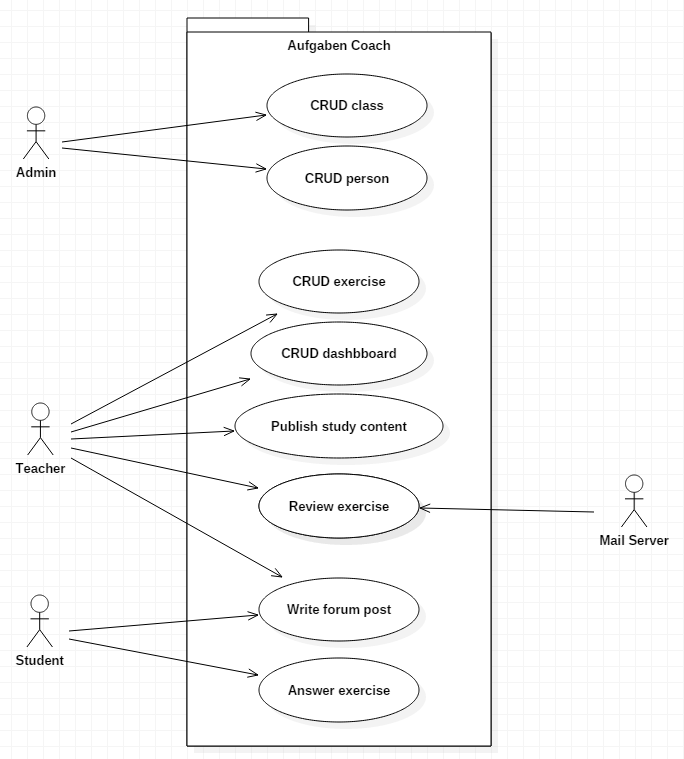
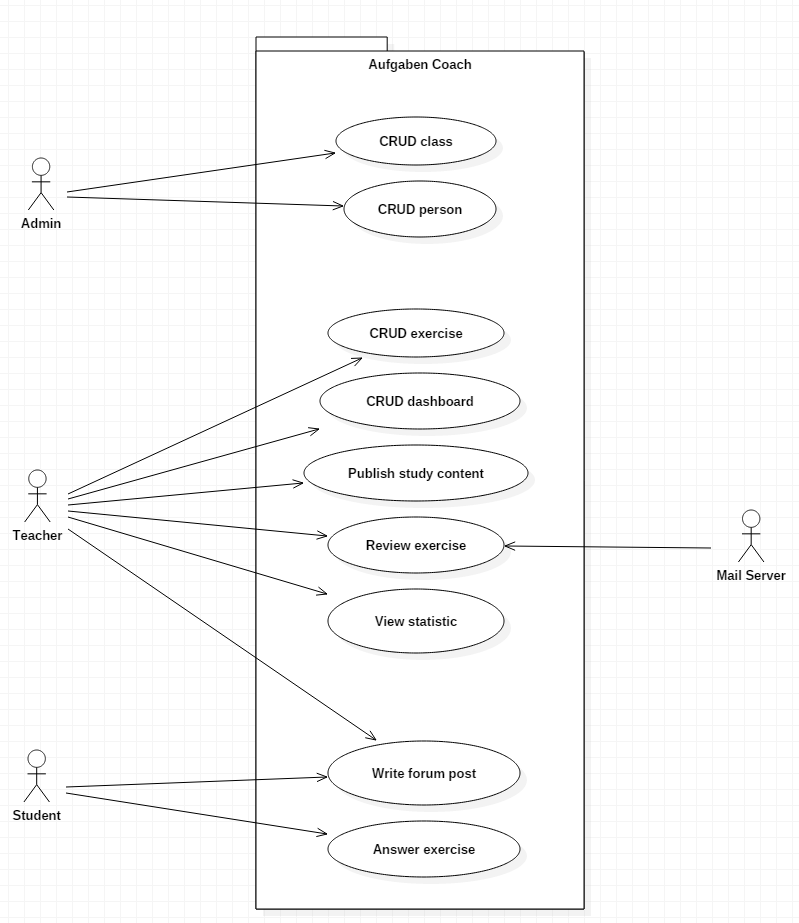
update usecases

diff --git a/chapter/07_01_anforderungen.tex b/chapter/07_01_anforderungen.tex
@@ -98,7 +98,7 @@ Nachfolgend werden die einzelnen Use Cases stichwortartig beschrieben.
 
 \newpage
 
-\subsubsection*{CRUD school class}
+\subsubsection*{CRUD class}
 
 \begin{itemize}
 	\item Hauptszenario:
@@ -127,7 +127,7 @@ Nachfolgend werden die einzelnen Use Cases stichwortartig beschrieben.
 
 
 
-\subsubsection*{Assign exercise to weekly schedule}
+\subsubsection*{CRUD dashboard}
 \begin{itemize}
 	\item Hauptszenario:
 	\begin{itemize}
@@ -141,7 +141,7 @@ Nachfolgend werden die einzelnen Use Cases stichwortartig beschrieben.
 
 
 
-\subsubsection*{Publish content}
+\subsubsection*{Publish study content}
 \begin{itemize}
 	\item Hauptszenario:
 	\begin{itemize}
@@ -164,7 +164,7 @@ Nachfolgend werden die einzelnen Use Cases stichwortartig beschrieben.
 \end{itemize}
 
 
-\subsubsection*{Create forum post}
+\subsubsection*{Write forum post}
 \begin{itemize}
 	\item Hauptszenario:
 	\begin{itemize}
@@ -177,16 +177,20 @@ Nachfolgend werden die einzelnen Use Cases stichwortartig beschrieben.
 \end{itemize}
 
 
-\subsubsection*{Send mail}
+\subsubsection*{Review exercise}
 \begin{itemize}
 	\item Hauptszenario:
 	\begin{itemize}
-		\item Der Lehrer hat die Möglichkeit, gelöste Aufgaben an die Schüler zurückzuweisen. Ist dies der Fall, wird eine E-Mail mit dem Feedback des Lehrers an den Schüler gesendet.
+		\item Der Lehrer hat die Möglichkeit, gelöste Aufgaben der Schüler zu korrigieren und zu bewerten. Nach der Bewertung kann die Abgabe akzeptiert werden.
+	\end{itemize}
+	\item Alternatives Szenario:
+	\begin{itemize}
+		\item Der Lehrer stellt beim Korrigieren der Abgabe zu viele Fehler fest und entscheidet sich die Abgabe an den Schüler zurückzuweisen. Er kann für den Schüler ein Feedback schreiben, welches per Mail versendet wird.
 	\end{itemize}
 \end{itemize}
 
 
-\subsubsection*{Solve exercise}
+\subsubsection*{Answer exercise}
 \begin{itemize}
 	\item Hauptszenario:
 	\begin{itemize}
